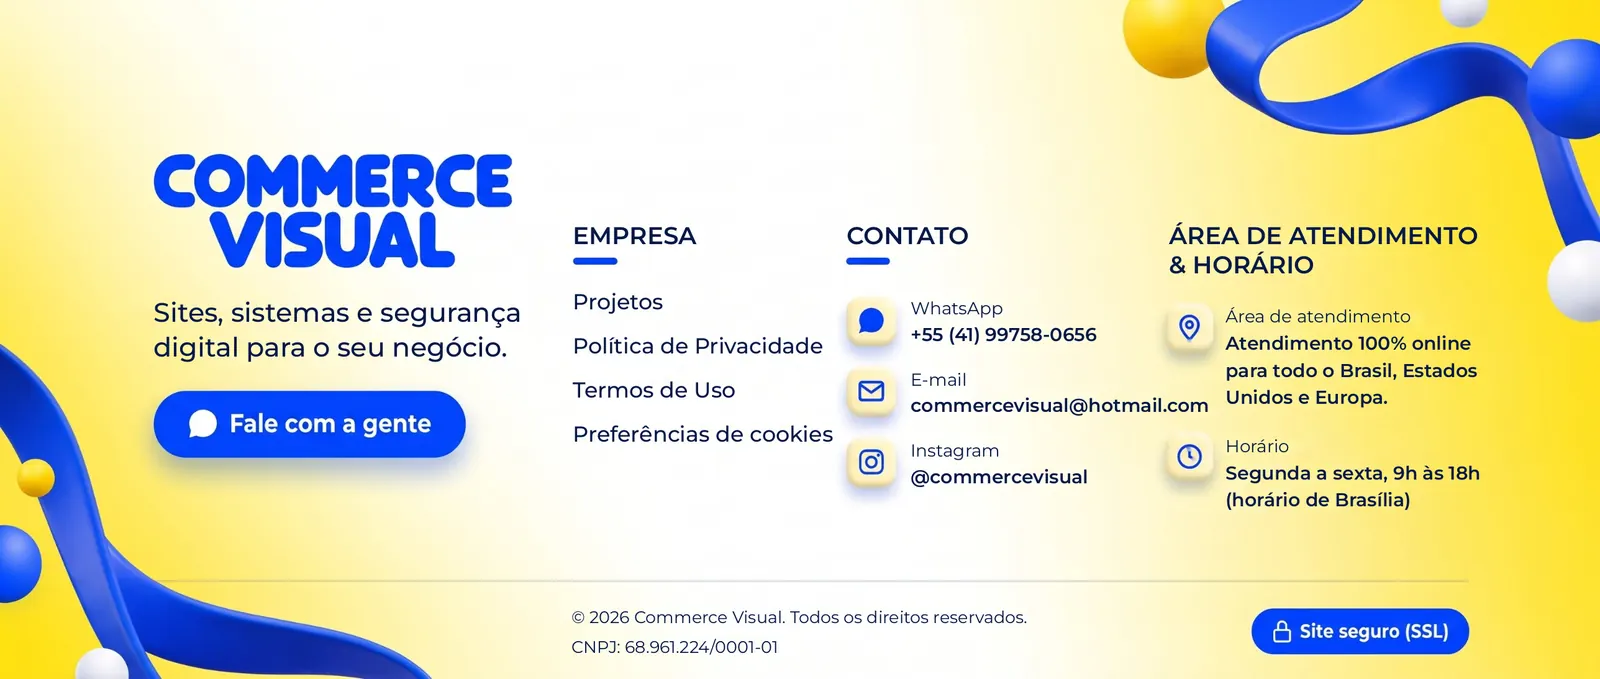
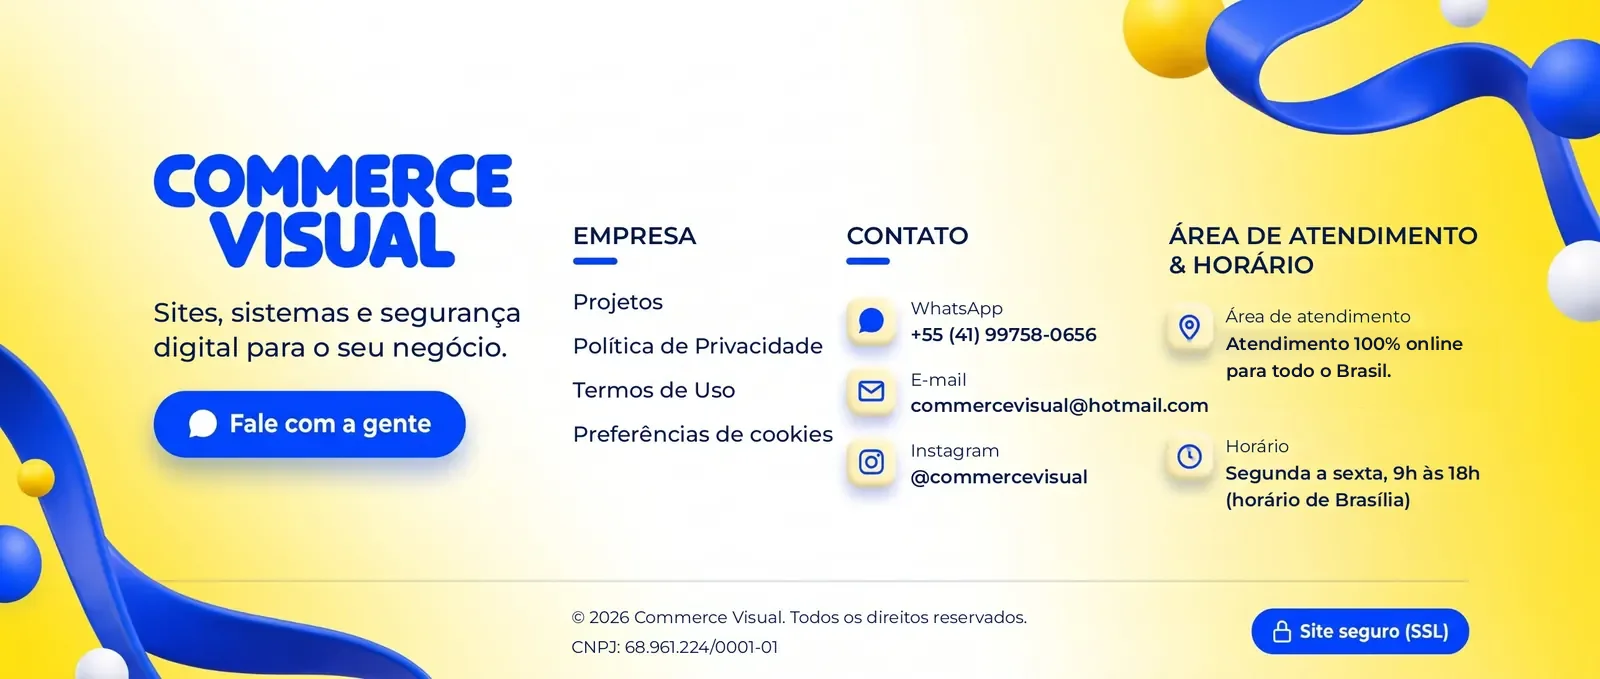
SEO e desempenho: descrição mais curta, og-image em JPEG, fontes com swap e rodapé sem 'Estados Unidos e Europa'
- Descrição de /sites-profissionais com 147 caracteres (antes 169)
- og-image convertido para JPEG (828 KB para 125 KB), sem mudança visual
- Google Fonts com display=swap para preservar a identidade visual
- Arte do rodapé (PT-BR): atendimento agora 'para todo o Brasil'

Claude-Session: https://claude.ai/code/session_01116qkuPV9n5GHVeypah9k4

Changed region(s): [[0.75, 0.4948, 0.9375, 0.6186]]

diff --git a/index.html b/index.html
@@ -22,27 +22,27 @@
     <meta property="og:description" content="Criação de sites, lojas virtuais e sistemas sob medida, com segurança digital e LGPD. Atendimento online para todo o Brasil. Peça seu orçamento." />
     <meta property="og:type" content="website" />
     <meta property="og:url" content="https://www.commercevisual.com.br/" />
-    <meta property="og:image" content="https://www.commercevisual.com.br/og-image.png" />
+    <meta property="og:image" content="https://www.commercevisual.com.br/og-image.jpg" />
     <meta property="og:image:width" content="1200" />
     <meta property="og:image:height" content="630" />
     <meta name="twitter:card" content="summary_large_image" />
     <meta name="twitter:title" content="Commerce Visual | Seu negócio sem limites" />
     <meta name="twitter:description" content="Commerce Visual: criação de sites profissionais, lojas virtuais, sistemas sob medida e segurança digital para pequenas empresas. Atendimento 100% online para todo o Brasil." />
-    <meta name="twitter:image" content="https://www.commercevisual.com.br/og-image.png" />
+    <meta name="twitter:image" content="https://www.commercevisual.com.br/og-image.jpg" />
 
     <!-- Resumo do site para assistentes de IA (ChatGPT, Claude, Perplexity, Gemini) -->
     <link rel="alternate" type="text/markdown" href="/llms.txt" title="Resumo do site para IA" />
 
     <!-- Dados estruturados: ajudam Google e IAs a entender quem é a empresa -->
-    <script type="application/ld+json">{"@context": "https://schema.org", "@type": "ProfessionalService", "@id": "https://www.commercevisual.com.br/#empresa", "name": "Commerce Visual", "alternateName": "CommerceVisual", "url": "https://www.commercevisual.com.br/", "logo": "https://www.commercevisual.com.br/cv/logo.webp", "image": "https://www.commercevisual.com.br/og-image.png", "description": "Criação de sites profissionais, lojas virtuais, sistemas sob medida e soluções de segurança digital para pequenas empresas, com atendimento 100% online para todo o Brasil.", "email": "commercevisual@hotmail.com", "telephone": "+55-41-99758-0656", "taxID": "68.961.224/0001-01", "address": {"@type": "PostalAddress", "addressLocality": "Belo Horizonte", "addressRegion": "MG", "addressCountry": "BR"}, "areaServed": [{"@type": "Country", "name": "Brasil"}], "availableLanguage": ["pt-BR"], "openingHoursSpecification": [{"@type": "OpeningHoursSpecification", "dayOfWeek": ["Monday", "Tuesday", "Wednesday", "Thursday", "Friday"], "opens": "09:00", "closes": "18:00"}], "sameAs": ["https://www.instagram.com/commercevisual/"], "hasOfferCatalog": {"@type": "OfferCatalog", "name": "Serviços", "itemListElement": [{"@type": "Offer", "itemOffered": {"@type": "Service", "name": "Sites profissionais", "url": "https://www.commercevisual.com.br/sites-profissionais/"}}, {"@type": "Offer", "itemOffered": {"@type": "Service", "name": "Lojas virtuais", "url": "https://www.commercevisual.com.br/lojas-virtuais/"}}, {"@type": "Offer", "itemOffered": {"@type": "Service", "name": "Sistemas sob medida", "url": "https://www.commercevisual.com.br/sistemas-sob-medida/"}}, {"@type": "Offer", "itemOffered": {"@type": "Service", "name": "Segurança digital", "url": "https://www.commercevisual.com.br/seguranca-digital/"}}]}}</script>
+    <script type="application/ld+json">{"@context": "https://schema.org", "@type": "ProfessionalService", "@id": "https://www.commercevisual.com.br/#empresa", "name": "Commerce Visual", "alternateName": "CommerceVisual", "url": "https://www.commercevisual.com.br/", "logo": "https://www.commercevisual.com.br/cv/logo.webp", "image": "https://www.commercevisual.com.br/og-image.jpg", "description": "Criação de sites profissionais, lojas virtuais, sistemas sob medida e soluções de segurança digital para pequenas empresas, com atendimento 100% online para todo o Brasil.", "email": "commercevisual@hotmail.com", "telephone": "+55-41-99758-0656", "taxID": "68.961.224/0001-01", "address": {"@type": "PostalAddress", "addressLocality": "Belo Horizonte", "addressRegion": "MG", "addressCountry": "BR"}, "areaServed": [{"@type": "Country", "name": "Brasil"}], "availableLanguage": ["pt-BR"], "openingHoursSpecification": [{"@type": "OpeningHoursSpecification", "dayOfWeek": ["Monday", "Tuesday", "Wednesday", "Thursday", "Friday"], "opens": "09:00", "closes": "18:00"}], "sameAs": ["https://www.instagram.com/commercevisual/"], "hasOfferCatalog": {"@type": "OfferCatalog", "name": "Serviços", "itemListElement": [{"@type": "Offer", "itemOffered": {"@type": "Service", "name": "Sites profissionais", "url": "https://www.commercevisual.com.br/sites-profissionais/"}}, {"@type": "Offer", "itemOffered": {"@type": "Service", "name": "Lojas virtuais", "url": "https://www.commercevisual.com.br/lojas-virtuais/"}}, {"@type": "Offer", "itemOffered": {"@type": "Service", "name": "Sistemas sob medida", "url": "https://www.commercevisual.com.br/sistemas-sob-medida/"}}, {"@type": "Offer", "itemOffered": {"@type": "Service", "name": "Segurança digital", "url": "https://www.commercevisual.com.br/seguranca-digital/"}}]}}</script>
     <script type="application/ld+json">{"@context": "https://schema.org", "@type": "WebSite", "@id": "https://www.commercevisual.com.br/#site", "name": "Commerce Visual", "url": "https://www.commercevisual.com.br/", "inLanguage": "pt-BR", "publisher": {"@id": "https://www.commercevisual.com.br/#empresa"}}</script>
     <script type="application/ld+json">{"@context":"https://schema.org","@type":"FAQPage","inLanguage":"pt-BR","mainEntity":[{"@type":"Question","name":"Eu realmente não preciso pagar mensalidades para a Commerce Visual?","acceptedAnswer":{"@type":"Answer","text":"Exato! O projeto é 100% seu com pagamento único de desenvolvimento, sem mensalidades obrigatórias. Você tem total autonomia, mas também pode optar por pacotes de suporte e manutenção caso queira nossa ajuda contínua."}},{"@type":"Question","name":"Qual o prazo médio de entrega de uma Landing Page ou Site?","acceptedAnswer":{"@type":"Answer","text":"Para Landing Pages de alta conversão, nosso prazo médio de entrega varia de 5 a 10 dias úteis após a aprovação do briefing e alinhamento de conteúdo. Para sistemas sob medida, o cronograma é estipulado de acordo com a complexidade técnica acordada."}},{"@type":"Question","name":"O site funciona com total perfeição em celulares e tablets?","acceptedAnswer":{"@type":"Answer","text":"Sim, aplicamos a abordagem estrita Mobile-First. Mais de 85% dos cliques vindos de campanhas chegam através de smartphones, por isso cada botão, texto e elemento é ajustado com precisão milimétrica para uma experiência tátil ultra-rápida."}},{"@type":"Question","name":"Como o site é integrado com o meu WhatsApp?","acceptedAnswer":{"@type":"Answer","text":"Configuramos botões inteligentes com mensagens pré-formatadas. Quando o visitante clica no botão do site, ele já abre o WhatsApp com um texto personalizado (ex: \u0027Olá, vim pelo site e gostaria de um orçamento\u0027), facilitando o início imediato do atendimento pela sua equipe."}},{"@type":"Question","name":"Vocês auxiliam na escolha de hospedagem e domínio?","acceptedAnswer":{"@type":"Answer","text":"Sim, fornecemos todo o direcionamento consultivo para que você registre seu domínio próprio (.com.br) e contrate a hospedagem mais veloz e econômica para a sua necessidade, mantendo tudo 100% no seu nome."}},{"@type":"Question","name":"Quais são as formas de pagamento disponíveis?","acceptedAnswer":{"@type":"Answer","text":"Aceitamos PIX e cartão de crédito. As condições são informadas na proposta antes do início do projeto."}}]}</script>
 
     <!-- Fontes e imagens -->
     <link rel="preconnect" href="https://fonts.googleapis.com" />
     <link rel="preconnect" href="https://fonts.gstatic.com" crossorigin />
-    <link id="google-fonts" rel="preload" as="style" href="https://fonts.googleapis.com/css2?family=Fredoka:wght@600;700&family=Montserrat:wght@400;500;600&display=optional" />
-    <noscript><link rel="stylesheet" href="https://fonts.googleapis.com/css2?family=Fredoka:wght@600;700&family=Montserrat:wght@400;500;600&display=optional" /></noscript>
+    <link id="google-fonts" rel="preload" as="style" href="https://fonts.googleapis.com/css2?family=Fredoka:wght@600;700&family=Montserrat:wght@400;500;600&display=swap" />
+    <noscript><link rel="stylesheet" href="https://fonts.googleapis.com/css2?family=Fredoka:wght@600;700&family=Montserrat:wght@400;500;600&display=swap" /></noscript>
     <link rel="preload" as="image" href="/cv/hero-desktop-v3-1440.webp" imagesrcset="/cv/hero-desktop-v3-1000.webp 1000w, /cv/hero-desktop-v3-1440.webp 1440w, /cv/hero-desktop-v3.webp 1600w" imagesizes="(max-width: 1600px) 100vw, 1600px" media="(min-width: 761px)" fetchpriority="high" />
     <link rel="preload" as="image" href="/cv/hero-mobile.webp" media="(max-width: 760px)" fetchpriority="high" />
   </head>

diff --git a/public/sites-profissionais/index.html b/public/sites-profissionais/index.html
@@ -6,26 +6,26 @@
   <meta name="color-scheme" content="only light">
     <meta name="darkreader-lock" />
   <title>Criação de Sites Profissionais | Commerce Visual</title>
-  <meta name="description" content="Criação de site profissional para pequenas empresas e profissionais liberais: rápido, seguro, pronto para o Google e com WhatsApp. Atendimento online para todo o Brasil.">
+  <meta name="description" content="Criação de site profissional para pequenas empresas e profissionais liberais, rápido, seguro e com WhatsApp. Atendimento online para todo o Brasil.">
   <link rel="icon" href="/favicon.ico" sizes="32x32"><link rel="icon" type="image/png" href="/favicon.png"><link rel="apple-touch-icon" href="/apple-touch-icon.png">
   <link rel="canonical" href="https://www.commercevisual.com.br/sites-profissionais/">
   <meta property="og:site_name" content="Commerce Visual">
   <meta property="og:locale" content="pt_BR">
   <meta property="og:title" content="Criação de Sites Profissionais | Commerce Visual">
-  <meta property="og:description" content="Criação de site profissional para pequenas empresas e profissionais liberais: rápido, seguro, pronto para o Google e com WhatsApp. Atendimento online para todo o Brasil.">
+  <meta property="og:description" content="Criação de site profissional para pequenas empresas e profissionais liberais, rápido, seguro e com WhatsApp. Atendimento online para todo o Brasil.">
   <meta property="og:type" content="website">
   <meta property="og:url" content="https://www.commercevisual.com.br/sites-profissionais/">
-  <meta property="og:image" content="https://www.commercevisual.com.br/og-image.png">
+  <meta property="og:image" content="https://www.commercevisual.com.br/og-image.jpg">
   <meta name="twitter:card" content="summary_large_image">
   <meta name="twitter:title" content="Criação de Sites Profissionais | Commerce Visual">
-  <meta name="twitter:description" content="Criação de site profissional para pequenas empresas e profissionais liberais: rápido, seguro, pronto para o Google e com WhatsApp. Atendimento online para todo o Brasil.">
-  <meta name="twitter:image" content="https://www.commercevisual.com.br/og-image.png">
+  <meta name="twitter:description" content="Criação de site profissional para pequenas empresas e profissionais liberais, rápido, seguro e com WhatsApp. Atendimento online para todo o Brasil.">
+  <meta name="twitter:image" content="https://www.commercevisual.com.br/og-image.jpg">
   <script type="application/ld+json">{"@context": "https://schema.org", "@type": "FAQPage", "inLanguage": "pt-BR", "mainEntity": [{"@type": "Question", "name": "Quanto tempo leva para criar um site?", "acceptedAnswer": {"@type": "Answer", "text": "Depende do tamanho do projeto. O prazo exato fica definido na proposta, antes de começar."}}, {"@type": "Question", "name": "Eu consigo atualizar o site depois?", "acceptedAnswer": {"@type": "Answer", "text": "Sim. Combinamos na proposta se você vai editar sozinho ou se prefere um plano de manutenção."}}, {"@type": "Question", "name": "Vocês atendem em qualquer cidade?", "acceptedAnswer": {"@type": "Answer", "text": "Sim. O atendimento é 100% online para todo o Brasil."}}]}</script>
-  <script type="application/ld+json">{"@context": "https://schema.org", "@type": "Service", "name": "Criação de sites profissionais", "description": "Criação de site profissional para pequenas empresas e profissionais liberais: rápido, seguro, pronto para o Google e com WhatsApp. Atendimento online para todo o Brasil.", "inLanguage": "pt-BR", "areaServed": ["BR"], "provider": {"@type": "Organization", "name": "Commerce Visual", "url": "https://www.commercevisual.com.br/", "email": "commercevisual@hotmail.com"}}</script>
+  <script type="application/ld+json">{"@context": "https://schema.org", "@type": "Service", "name": "Criação de sites profissionais", "description": "Criação de site profissional para pequenas empresas e profissionais liberais, rápido, seguro e com WhatsApp. Atendimento online para todo o Brasil.", "inLanguage": "pt-BR", "areaServed": ["BR"], "provider": {"@type": "Organization", "name": "Commerce Visual", "url": "https://www.commercevisual.com.br/", "email": "commercevisual@hotmail.com"}}</script>
   <link rel="preconnect" href="https://fonts.googleapis.com">
   <link rel="preconnect" href="https://fonts.gstatic.com" crossorigin>
-  <link id="google-fonts" rel="preload" as="style" href="https://fonts.googleapis.com/css2?family=Fredoka:wght@600;700&family=Montserrat:wght@400;500;600&display=optional">
-  <noscript><link rel="stylesheet" href="https://fonts.googleapis.com/css2?family=Fredoka:wght@600;700&family=Montserrat:wght@400;500;600&display=optional"></noscript>
+  <link id="google-fonts" rel="preload" as="style" href="https://fonts.googleapis.com/css2?family=Fredoka:wght@600;700&family=Montserrat:wght@400;500;600&display=swap">
+  <noscript><link rel="stylesheet" href="https://fonts.googleapis.com/css2?family=Fredoka:wght@600;700&family=Montserrat:wght@400;500;600&display=swap"></noscript>
 <style>
   /* Tipografia oficial (mesmos tokens do site principal) */
   :root {

diff --git a/public/seguranca-digital/index.html b/public/seguranca-digital/index.html
@@ -15,17 +15,17 @@
   <meta property="og:description" content="Proteja o site e os dados da sua empresa: SSL, atualizações, backups, controle de acesso e revisão de segurança feita com autorização.">
   <meta property="og:type" content="website">
   <meta property="og:url" content="https://www.commercevisual.com.br/seguranca-digital/">
-  <meta property="og:image" content="https://www.commercevisual.com.br/og-image.png">
+  <meta property="og:image" content="https://www.commercevisual.com.br/og-image.jpg">
   <meta name="twitter:card" content="summary_large_image">
   <meta name="twitter:title" content="Segurança Digital para Sites e Pequenas Empresas | Commerce Visual">
   <meta name="twitter:description" content="Proteja o site e os dados da sua empresa: SSL, atualizações, backups, controle de acesso e revisão de segurança feita com autorização.">
-  <meta name="twitter:image" content="https://www.commercevisual.com.br/og-image.png">
+  <meta name="twitter:image" content="https://www.commercevisual.com.br/og-image.jpg">
   <script type="application/ld+json">{"@context": "https://schema.org", "@type": "FAQPage", "inLanguage": "pt-BR", "mainEntity": [{"@type": "Question", "name": "Vocês garantem que meu site nunca será invadido?", "acceptedAnswer": {"@type": "Answer", "text": "Ninguém consegue garantir isso de forma honesta. O que fazemos é aplicar boas práticas que reduzem muito o risco e ajudam a recuperar o site rápido se algo acontecer."}}, {"@type": "Question", "name": "Vocês testam sites de terceiros?", "acceptedAnswer": {"@type": "Answer", "text": "Só fazemos testes de segurança com autorização por escrito do dono do sistema e dentro do escopo combinado."}}, {"@type": "Question", "name": "Meu site já foi invadido. O que faço?", "acceptedAnswer": {"@type": "Answer", "text": "Fale com a gente pelo WhatsApp. O primeiro passo é avaliar o que aconteceu, limpar o site e trocar todos os acessos."}}]}</script>
   <script type="application/ld+json">{"@context": "https://schema.org", "@type": "Service", "name": "Segurança digital para sites", "description": "Proteja o site e os dados da sua empresa: SSL, atualizações, backups, controle de acesso e revisão de segurança feita com autorização.", "inLanguage": "pt-BR", "areaServed": ["BR"], "provider": {"@type": "Organization", "name": "Commerce Visual", "url": "https://www.commercevisual.com.br/", "email": "commercevisual@hotmail.com"}}</script>
   <link rel="preconnect" href="https://fonts.googleapis.com">
   <link rel="preconnect" href="https://fonts.gstatic.com" crossorigin>
-  <link id="google-fonts" rel="preload" as="style" href="https://fonts.googleapis.com/css2?family=Fredoka:wght@600;700&family=Montserrat:wght@400;500;600&display=optional">
-  <noscript><link rel="stylesheet" href="https://fonts.googleapis.com/css2?family=Fredoka:wght@600;700&family=Montserrat:wght@400;500;600&display=optional"></noscript>
+  <link id="google-fonts" rel="preload" as="style" href="https://fonts.googleapis.com/css2?family=Fredoka:wght@600;700&family=Montserrat:wght@400;500;600&display=swap">
+  <noscript><link rel="stylesheet" href="https://fonts.googleapis.com/css2?family=Fredoka:wght@600;700&family=Montserrat:wght@400;500;600&display=swap"></noscript>
 <style>
   /* Tipografia oficial (mesmos tokens do site principal) */
   :root {

diff --git a/public/lojas-virtuais/index.html b/public/lojas-virtuais/index.html
@@ -15,17 +15,17 @@
   <meta property="og:description" content="Loja virtual própria para vender pela internet com catálogo, carrinho, pagamento online e integração com WhatsApp. Atendimento online para todo o Brasil.">
   <meta property="og:type" content="website">
   <meta property="og:url" content="https://www.commercevisual.com.br/lojas-virtuais/">
-  <meta property="og:image" content="https://www.commercevisual.com.br/og-image.png">
+  <meta property="og:image" content="https://www.commercevisual.com.br/og-image.jpg">
   <meta name="twitter:card" content="summary_large_image">
   <meta name="twitter:title" content="Criação de Loja Virtual para Pequenas Empresas | Commerce Visual">
   <meta name="twitter:description" content="Loja virtual própria para vender pela internet com catálogo, carrinho, pagamento online e integração com WhatsApp. Atendimento online para todo o Brasil.">
-  <meta name="twitter:image" content="https://www.commercevisual.com.br/og-image.png">
+  <meta name="twitter:image" content="https://www.commercevisual.com.br/og-image.jpg">
   <script type="application/ld+json">{"@context": "https://schema.org", "@type": "FAQPage", "inLanguage": "pt-BR", "mainEntity": [{"@type": "Question", "name": "Preciso ter CNPJ para ter uma loja virtual?", "acceptedAnswer": {"@type": "Answer", "text": "Para receber pagamentos online, as plataformas costumam pedir CNPJ ou CPF, conforme as regras de cada uma. Explicamos isso no início do projeto."}}, {"@type": "Question", "name": "A loja funciona no celular?", "acceptedAnswer": {"@type": "Answer", "text": "Sim. A maior parte das compras acontece pelo celular, então a loja é pensada primeiro para ele."}}, {"@type": "Question", "name": "Quem cadastra os produtos?", "acceptedAnswer": {"@type": "Answer", "text": "Podemos fazer o primeiro cadastro ou ensinar você a fazer. Isso fica definido na proposta."}}]}</script>
   <script type="application/ld+json">{"@context": "https://schema.org", "@type": "Service", "name": "Criação de lojas virtuais", "description": "Loja virtual própria para vender pela internet com catálogo, carrinho, pagamento online e integração com WhatsApp. Atendimento online para todo o Brasil.", "inLanguage": "pt-BR", "areaServed": ["BR"], "provider": {"@type": "Organization", "name": "Commerce Visual", "url": "https://www.commercevisual.com.br/", "email": "commercevisual@hotmail.com"}}</script>
   <link rel="preconnect" href="https://fonts.googleapis.com">
   <link rel="preconnect" href="https://fonts.gstatic.com" crossorigin>
-  <link id="google-fonts" rel="preload" as="style" href="https://fonts.googleapis.com/css2?family=Fredoka:wght@600;700&family=Montserrat:wght@400;500;600&display=optional">
-  <noscript><link rel="stylesheet" href="https://fonts.googleapis.com/css2?family=Fredoka:wght@600;700&family=Montserrat:wght@400;500;600&display=optional"></noscript>
+  <link id="google-fonts" rel="preload" as="style" href="https://fonts.googleapis.com/css2?family=Fredoka:wght@600;700&family=Montserrat:wght@400;500;600&display=swap">
+  <noscript><link rel="stylesheet" href="https://fonts.googleapis.com/css2?family=Fredoka:wght@600;700&family=Montserrat:wght@400;500;600&display=swap"></noscript>
 <style>
   /* Tipografia oficial (mesmos tokens do site principal) */
   :root {

diff --git a/public/sistemas-sob-medida/index.html b/public/sistemas-sob-medida/index.html
@@ -15,17 +15,17 @@
   <meta property="og:description" content="Sistemas web sob medida para organizar pedidos, agendamentos, clientes e tarefas da sua empresa. Mais controle e produtividade no dia a dia.">
   <meta property="og:type" content="website">
   <meta property="og:url" content="https://www.commercevisual.com.br/sistemas-sob-medida/">
-  <meta property="og:image" content="https://www.commercevisual.com.br/og-image.png">
+  <meta property="og:image" content="https://www.commercevisual.com.br/og-image.jpg">
   <meta name="twitter:card" content="summary_large_image">
   <meta name="twitter:title" content="Desenvolvimento de Sistemas Sob Medida | Commerce Visual">
   <meta name="twitter:description" content="Sistemas web sob medida para organizar pedidos, agendamentos, clientes e tarefas da sua empresa. Mais controle e produtividade no dia a dia.">
-  <meta name="twitter:image" content="https://www.commercevisual.com.br/og-image.png">
+  <meta name="twitter:image" content="https://www.commercevisual.com.br/og-image.jpg">
   <script type="application/ld+json">{"@context": "https://schema.org", "@type": "FAQPage", "inLanguage": "pt-BR", "mainEntity": [{"@type": "Question", "name": "Preciso saber de tecnologia para usar o sistema?", "acceptedAnswer": {"@type": "Answer", "text": "Não. O sistema é desenhado para a sua equipe usar no dia a dia, e fazemos uma apresentação na entrega."}}, {"@type": "Question", "name": "O sistema pode crescer depois?", "acceptedAnswer": {"@type": "Answer", "text": "Sim. Novas funções podem ser orçadas e adicionadas por etapas."}}, {"@type": "Question", "name": "Os dados ficam seguros?", "acceptedAnswer": {"@type": "Answer", "text": "Usamos boas práticas de segurança, como controle de acesso, HTTPS e backups. Nenhum sistema é 100% imune, mas reduzimos bastante os riscos."}}]}</script>
   <script type="application/ld+json">{"@context": "https://schema.org", "@type": "Service", "name": "Desenvolvimento de sistemas sob medida", "description": "Sistemas web sob medida para organizar pedidos, agendamentos, clientes e tarefas da sua empresa. Mais controle e produtividade no dia a dia.", "inLanguage": "pt-BR", "areaServed": ["BR"], "provider": {"@type": "Organization", "name": "Commerce Visual", "url": "https://www.commercevisual.com.br/", "email": "commercevisual@hotmail.com"}}</script>
   <link rel="preconnect" href="https://fonts.googleapis.com">
   <link rel="preconnect" href="https://fonts.gstatic.com" crossorigin>
-  <link id="google-fonts" rel="preload" as="style" href="https://fonts.googleapis.com/css2?family=Fredoka:wght@600;700&family=Montserrat:wght@400;500;600&display=optional">
-  <noscript><link rel="stylesheet" href="https://fonts.googleapis.com/css2?family=Fredoka:wght@600;700&family=Montserrat:wght@400;500;600&display=optional"></noscript>
+  <link id="google-fonts" rel="preload" as="style" href="https://fonts.googleapis.com/css2?family=Fredoka:wght@600;700&family=Montserrat:wght@400;500;600&display=swap">
+  <noscript><link rel="stylesheet" href="https://fonts.googleapis.com/css2?family=Fredoka:wght@600;700&family=Montserrat:wght@400;500;600&display=swap"></noscript>
 <style>
   /* Tipografia oficial (mesmos tokens do site principal) */
   :root {

diff --git a/public/site-para-clinica-de-estetica/index.html b/public/site-para-clinica-de-estetica/index.html
@@ -15,17 +15,17 @@
   <meta property="og:description" content="Site profissional para clínica de estética com procedimentos, agendamento pelo WhatsApp, fotos do espaço e estrutura para aparecer no Google.">
   <meta property="og:type" content="website">
   <meta property="og:url" content="https://www.commercevisual.com.br/site-para-clinica-de-estetica/">
-  <meta property="og:image" content="https://www.commercevisual.com.br/og-image.png">
+  <meta property="og:image" content="https://www.commercevisual.com.br/og-image.jpg">
   <meta name="twitter:card" content="summary_large_image">
   <meta name="twitter:title" content="Site para Clínica de Estética | Commerce Visual">
   <meta name="twitter:description" content="Site profissional para clínica de estética com procedimentos, agendamento pelo WhatsApp, fotos do espaço e estrutura para aparecer no Google.">
-  <meta name="twitter:image" content="https://www.commercevisual.com.br/og-image.png">
+  <meta name="twitter:image" content="https://www.commercevisual.com.br/og-image.jpg">
   <script type="application/ld+json">{"@context": "https://schema.org", "@type": "FAQPage", "inLanguage": "pt-BR", "mainEntity": [{"@type": "Question", "name": "Dá para ter agenda online?", "acceptedAnswer": {"@type": "Answer", "text": "Sim. Pode ser pelo WhatsApp ou com um sistema de agendamento integrado ao site."}}, {"@type": "Question", "name": "Posso mostrar fotos de antes e depois?", "acceptedAnswer": {"@type": "Answer", "text": "Depende das regras do conselho da sua profissão. Recomendamos confirmar com ele antes de publicar."}}]}</script>
   <script type="application/ld+json">{"@context": "https://schema.org", "@type": "Service", "name": "Criação de site para clínicas de estética", "description": "Site profissional para clínica de estética com procedimentos, agendamento pelo WhatsApp, fotos do espaço e estrutura para aparecer no Google.", "inLanguage": "pt-BR", "areaServed": ["BR"], "provider": {"@type": "Organization", "name": "Commerce Visual", "url": "https://www.commercevisual.com.br/", "email": "commercevisual@hotmail.com"}}</script>
   <link rel="preconnect" href="https://fonts.googleapis.com">
   <link rel="preconnect" href="https://fonts.gstatic.com" crossorigin>
-  <link id="google-fonts" rel="preload" as="style" href="https://fonts.googleapis.com/css2?family=Fredoka:wght@600;700&family=Montserrat:wght@400;500;600&display=optional">
-  <noscript><link rel="stylesheet" href="https://fonts.googleapis.com/css2?family=Fredoka:wght@600;700&family=Montserrat:wght@400;500;600&display=optional"></noscript>
+  <link id="google-fonts" rel="preload" as="style" href="https://fonts.googleapis.com/css2?family=Fredoka:wght@600;700&family=Montserrat:wght@400;500;600&display=swap">
+  <noscript><link rel="stylesheet" href="https://fonts.googleapis.com/css2?family=Fredoka:wght@600;700&family=Montserrat:wght@400;500;600&display=swap"></noscript>
 <style>
   /* Tipografia oficial (mesmos tokens do site principal) */
   :root {

diff --git a/public/sistema-de-agendamento-para-barbearia/index.html b/public/sistema-de-agendamento-para-barbearia/index.html
@@ -15,17 +15,17 @@
   <meta property="og:description" content="Sistema de agendamento online para barbearias: o cliente escolhe serviço, barbeiro e horário, com lembretes e painel para organizar a agenda.">
   <meta property="og:type" content="website">
   <meta property="og:url" content="https://www.commercevisual.com.br/sistema-de-agendamento-para-barbearia/">
-  <meta property="og:image" content="https://www.commercevisual.com.br/og-image.png">
+  <meta property="og:image" content="https://www.commercevisual.com.br/og-image.jpg">
   <meta name="twitter:card" content="summary_large_image">
   <meta name="twitter:title" content="Sistema de Agendamento para Barbearia | Commerce Visual">
   <meta name="twitter:description" content="Sistema de agendamento online para barbearias: o cliente escolhe serviço, barbeiro e horário, com lembretes e painel para organizar a agenda.">
-  <meta name="twitter:image" content="https://www.commercevisual.com.br/og-image.png">
+  <meta name="twitter:image" content="https://www.commercevisual.com.br/og-image.jpg">
   <script type="application/ld+json">{"@context": "https://schema.org", "@type": "FAQPage", "inLanguage": "pt-BR", "mainEntity": [{"@type": "Question", "name": "O cliente precisa baixar aplicativo?", "acceptedAnswer": {"@type": "Answer", "text": "Não. O agendamento funciona pelo navegador do celular."}}, {"@type": "Question", "name": "Dá para cobrar sinal no agendamento?", "acceptedAnswer": {"@type": "Answer", "text": "Pode ser integrado com uma plataforma de pagamento, se fizer sentido para a sua barbearia."}}]}</script>
   <script type="application/ld+json">{"@context": "https://schema.org", "@type": "Service", "name": "Sistema de agendamento para barbearias", "description": "Sistema de agendamento online para barbearias: o cliente escolhe serviço, barbeiro e horário, com lembretes e painel para organizar a agenda.", "inLanguage": "pt-BR", "areaServed": ["BR"], "provider": {"@type": "Organization", "name": "Commerce Visual", "url": "https://www.commercevisual.com.br/", "email": "commercevisual@hotmail.com"}}</script>
   <link rel="preconnect" href="https://fonts.googleapis.com">
   <link rel="preconnect" href="https://fonts.gstatic.com" crossorigin>
-  <link id="google-fonts" rel="preload" as="style" href="https://fonts.googleapis.com/css2?family=Fredoka:wght@600;700&family=Montserrat:wght@400;500;600&display=optional">
-  <noscript><link rel="stylesheet" href="https://fonts.googleapis.com/css2?family=Fredoka:wght@600;700&family=Montserrat:wght@400;500;600&display=optional"></noscript>
+  <link id="google-fonts" rel="preload" as="style" href="https://fonts.googleapis.com/css2?family=Fredoka:wght@600;700&family=Montserrat:wght@400;500;600&display=swap">
+  <noscript><link rel="stylesheet" href="https://fonts.googleapis.com/css2?family=Fredoka:wght@600;700&family=Montserrat:wght@400;500;600&display=swap"></noscript>
 <style>
   /* Tipografia oficial (mesmos tokens do site principal) */
   :root {

diff --git a/public/loja-virtual-para-confeitaria/index.html b/public/loja-virtual-para-confeitaria/index.html
@@ -15,17 +15,17 @@
   <meta property="og:description" content="Loja virtual para confeitaria e docerias: cardápio online, encomendas, datas de entrega, pagamento por Pix e pedido pelo WhatsApp.">
   <meta property="og:type" content="website">
   <meta property="og:url" content="https://www.commercevisual.com.br/loja-virtual-para-confeitaria/">
-  <meta property="og:image" content="https://www.commercevisual.com.br/og-image.png">
+  <meta property="og:image" content="https://www.commercevisual.com.br/og-image.jpg">
   <meta name="twitter:card" content="summary_large_image">
   <meta name="twitter:title" content="Loja Virtual para Confeitaria | Commerce Visual">
   <meta name="twitter:description" content="Loja virtual para confeitaria e docerias: cardápio online, encomendas, datas de entrega, pagamento por Pix e pedido pelo WhatsApp.">
-  <meta name="twitter:image" content="https://www.commercevisual.com.br/og-image.png">
+  <meta name="twitter:image" content="https://www.commercevisual.com.br/og-image.jpg">
   <script type="application/ld+json">{"@context": "https://schema.org", "@type": "FAQPage", "inLanguage": "pt-BR", "mainEntity": [{"@type": "Question", "name": "Consigo pausar encomendas quando a agenda lotar?", "acceptedAnswer": {"@type": "Answer", "text": "Sim. Dá para limitar datas ou pausar produtos temporariamente."}}, {"@type": "Question", "name": "Preciso de CNPJ?", "acceptedAnswer": {"@type": "Answer", "text": "As plataformas de pagamento têm regras próprias. Explicamos as opções no início do projeto."}}]}</script>
   <script type="application/ld+json">{"@context": "https://schema.org", "@type": "Service", "name": "Criação de loja virtual para confeitarias", "description": "Loja virtual para confeitaria e docerias: cardápio online, encomendas, datas de entrega, pagamento por Pix e pedido pelo WhatsApp.", "inLanguage": "pt-BR", "areaServed": ["BR"], "provider": {"@type": "Organization", "name": "Commerce Visual", "url": "https://www.commercevisual.com.br/", "email": "commercevisual@hotmail.com"}}</script>
   <link rel="preconnect" href="https://fonts.googleapis.com">
   <link rel="preconnect" href="https://fonts.gstatic.com" crossorigin>
-  <link id="google-fonts" rel="preload" as="style" href="https://fonts.googleapis.com/css2?family=Fredoka:wght@600;700&family=Montserrat:wght@400;500;600&display=optional">
-  <noscript><link rel="stylesheet" href="https://fonts.googleapis.com/css2?family=Fredoka:wght@600;700&family=Montserrat:wght@400;500;600&display=optional"></noscript>
+  <link id="google-fonts" rel="preload" as="style" href="https://fonts.googleapis.com/css2?family=Fredoka:wght@600;700&family=Montserrat:wght@400;500;600&display=swap">
+  <noscript><link rel="stylesheet" href="https://fonts.googleapis.com/css2?family=Fredoka:wght@600;700&family=Montserrat:wght@400;500;600&display=swap"></noscript>
 <style>
   /* Tipografia oficial (mesmos tokens do site principal) */
   :root {

diff --git a/public/politica-de-privacidade/index.html b/public/politica-de-privacidade/index.html
@@ -15,15 +15,15 @@
   <meta property="og:description" content="Saiba como a Commerce Visual coleta, usa e protege seus dados pessoais, de acordo com a LGPD. Hoje o site não usa cookies de análise nem de marketing.">
   <meta property="og:type" content="website">
   <meta property="og:url" content="https://www.commercevisual.com.br/politica-de-privacidade/">
-  <meta property="og:image" content="https://www.commercevisual.com.br/og-image.png">
+  <meta property="og:image" content="https://www.commercevisual.com.br/og-image.jpg">
   <meta name="twitter:card" content="summary_large_image">
   <meta name="twitter:title" content="Política de Privacidade | Commerce Visual">
   <meta name="twitter:description" content="Saiba como a Commerce Visual coleta, usa e protege seus dados pessoais, de acordo com a LGPD. Hoje o site não usa cookies de análise nem de marketing.">
-  <meta name="twitter:image" content="https://www.commercevisual.com.br/og-image.png">
+  <meta name="twitter:image" content="https://www.commercevisual.com.br/og-image.jpg">
   <link rel="preconnect" href="https://fonts.googleapis.com">
   <link rel="preconnect" href="https://fonts.gstatic.com" crossorigin>
-  <link id="google-fonts" rel="preload" as="style" href="https://fonts.googleapis.com/css2?family=Fredoka:wght@600;700&family=Montserrat:wght@400;500;600&display=optional">
-  <noscript><link rel="stylesheet" href="https://fonts.googleapis.com/css2?family=Fredoka:wght@600;700&family=Montserrat:wght@400;500;600&display=optional"></noscript>
+  <link id="google-fonts" rel="preload" as="style" href="https://fonts.googleapis.com/css2?family=Fredoka:wght@600;700&family=Montserrat:wght@400;500;600&display=swap">
+  <noscript><link rel="stylesheet" href="https://fonts.googleapis.com/css2?family=Fredoka:wght@600;700&family=Montserrat:wght@400;500;600&display=swap"></noscript>
 <style>
   /* Tipografia oficial (mesmos tokens do site principal) */
   :root {

diff --git a/public/termos-de-uso/index.html b/public/termos-de-uso/index.html
@@ -15,15 +15,15 @@
   <meta property="og:description" content="Regras de uso do site da Commerce Visual e condições gerais de contratação de sites, lojas virtuais, sistemas sob medida e segurança digital.">
   <meta property="og:type" content="website">
   <meta property="og:url" content="https://www.commercevisual.com.br/termos-de-uso/">
-  <meta property="og:image" content="https://www.commercevisual.com.br/og-image.png">
+  <meta property="og:image" content="https://www.commercevisual.com.br/og-image.jpg">
   <meta name="twitter:card" content="summary_large_image">
   <meta name="twitter:title" content="Termos de Uso | Commerce Visual">
   <meta name="twitter:description" content="Regras de uso do site da Commerce Visual e condições gerais de contratação de sites, lojas virtuais, sistemas sob medida e segurança digital.">
-  <meta name="twitter:image" content="https://www.commercevisual.com.br/og-image.png">
+  <meta name="twitter:image" content="https://www.commercevisual.com.br/og-image.jpg">
   <link rel="preconnect" href="https://fonts.googleapis.com">
   <link rel="preconnect" href="https://fonts.gstatic.com" crossorigin>
-  <link id="google-fonts" rel="preload" as="style" href="https://fonts.googleapis.com/css2?family=Fredoka:wght@600;700&family=Montserrat:wght@400;500;600&display=optional">
-  <noscript><link rel="stylesheet" href="https://fonts.googleapis.com/css2?family=Fredoka:wght@600;700&family=Montserrat:wght@400;500;600&display=optional"></noscript>
+  <link id="google-fonts" rel="preload" as="style" href="https://fonts.googleapis.com/css2?family=Fredoka:wght@600;700&family=Montserrat:wght@400;500;600&display=swap">
+  <noscript><link rel="stylesheet" href="https://fonts.googleapis.com/css2?family=Fredoka:wght@600;700&family=Montserrat:wght@400;500;600&display=swap"></noscript>
 <style>
   /* Tipografia oficial (mesmos tokens do site principal) */
   :root {

diff --git a/public/quanto-custa-um-site/index.html b/public/quanto-custa-um-site/index.html
@@ -15,15 +15,15 @@
   <meta property="og:description" content="Entenda o que define o valor de um site, as etapas do projeto, a forma de pagamento e os custos depois da entrega.">
   <meta property="og:type" content="website">
   <meta property="og:url" content="https://www.commercevisual.com.br/quanto-custa-um-site/">
-  <meta property="og:image" content="https://www.commercevisual.com.br/og-image.png">
+  <meta property="og:image" content="https://www.commercevisual.com.br/og-image.jpg">
   <meta name="twitter:card" content="summary_large_image">
   <meta name="twitter:title" content="Como funciona o orçamento de um site | Commerce Visual">
   <meta name="twitter:description" content="Entenda o que define o valor de um site, as etapas do projeto, a forma de pagamento e os custos depois da entrega.">
-  <meta name="twitter:image" content="https://www.commercevisual.com.br/og-image.png">
+  <meta name="twitter:image" content="https://www.commercevisual.com.br/og-image.jpg">
   <link rel="preconnect" href="https://fonts.googleapis.com">
   <link rel="preconnect" href="https://fonts.gstatic.com" crossorigin>
-  <link id="google-fonts" rel="preload" as="style" href="https://fonts.googleapis.com/css2?family=Fredoka:wght@600;700&family=Montserrat:wght@400;500;600&display=optional">
-  <noscript><link rel="stylesheet" href="https://fonts.googleapis.com/css2?family=Fredoka:wght@600;700&family=Montserrat:wght@400;500;600&display=optional"></noscript>
+  <link id="google-fonts" rel="preload" as="style" href="https://fonts.googleapis.com/css2?family=Fredoka:wght@600;700&family=Montserrat:wght@400;500;600&display=swap">
+  <noscript><link rel="stylesheet" href="https://fonts.googleapis.com/css2?family=Fredoka:wght@600;700&family=Montserrat:wght@400;500;600&display=swap"></noscript>
 <style>
   /* Tipografia oficial (mesmos tokens do site principal) */
   :root {
